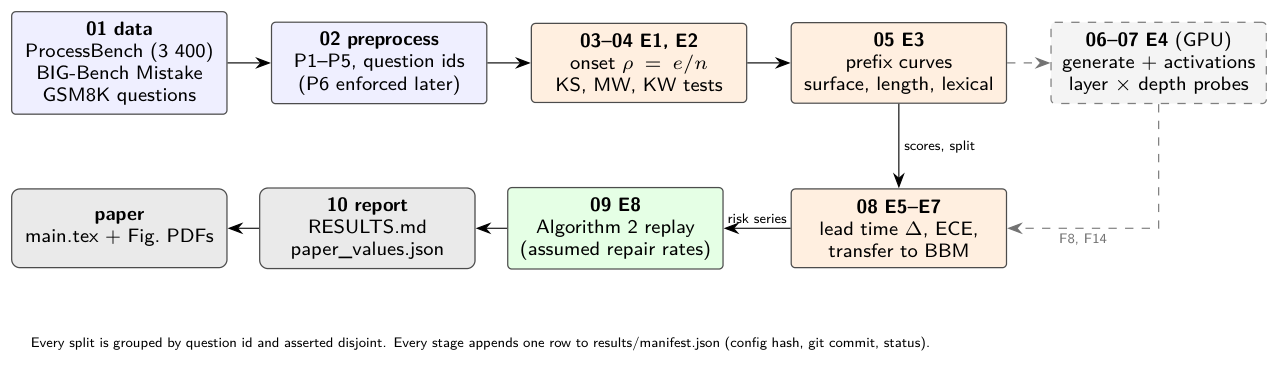
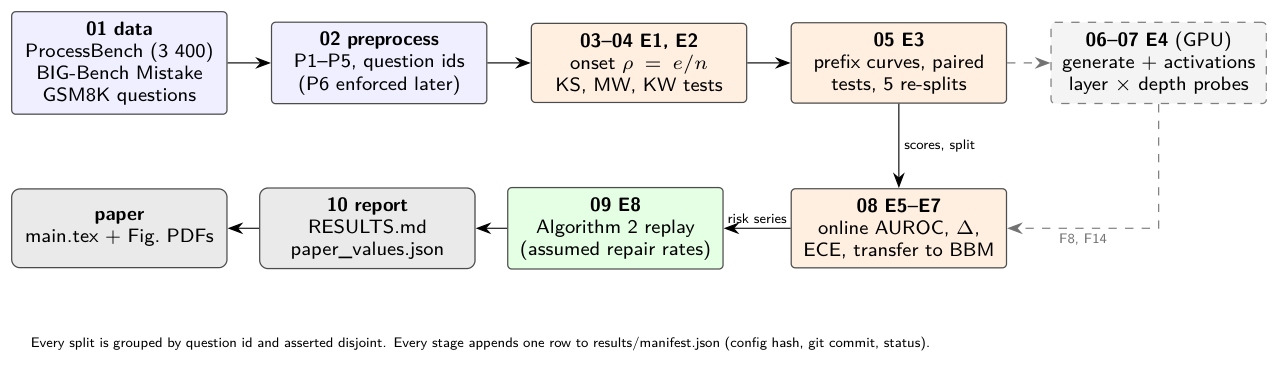
feat(diagrams): pipeline diagram shows the new analyses

Changed region(s): [[0.6099, 0.5337, 0.7928, 0.7412], [0.6099, 0.1482, 0.7928, 0.2668], [0.7013, 0.3854, 0.7623, 0.4151]]

diff --git a/docs/diagrams/pipeline.tex b/docs/diagrams/pipeline.tex
@@ -16,8 +16,8 @@
 \node[data] (s01) at (0,0) {\textbf{01 data}\\ProcessBench (3 400)\\BIG-Bench Mistake\\GSM8K questions};
 \node[data] (s02) at (3.3,0) {\textbf{02 preprocess}\\P1--P5, question ids\\(P6 enforced later)};
 \node[ana]  (s03) at (6.6,0) {\textbf{03--04 E1, E2}\\onset $\rho=e/n$\\KS, MW, KW tests};
-\node[ana]  (s05) at (9.9,0) {\textbf{05 E3}\\prefix curves\\surface, length, lexical};
-\node[ana]  (s08) at (9.9,-2.1) {\textbf{08 E5--E7}\\lead time $\Delta$, ECE,\\transfer to BBM};
+\node[ana]  (s05) at (9.9,0) {\textbf{05 E3}\\prefix curves, paired\\tests, 5 re-splits};
+\node[ana]  (s08) at (9.9,-2.1) {\textbf{08 E5--E7}\\online AUROC, $\Delta$,\\ECE, transfer to BBM};
 \node[act]  (s09) at (6.3,-2.1) {\textbf{09 E8}\\Algorithm 2 replay\\(assumed repair rates)};
 \node[result]  (s10) at (3.15,-2.1) {\textbf{10 report}\\RESULTS.md\\paper\_values.json};
 \node[gpu]  (s06) at (13.2,0) {\textbf{06--07 E4} (GPU)\\generate + activations\\layer $\times$ depth probes};
